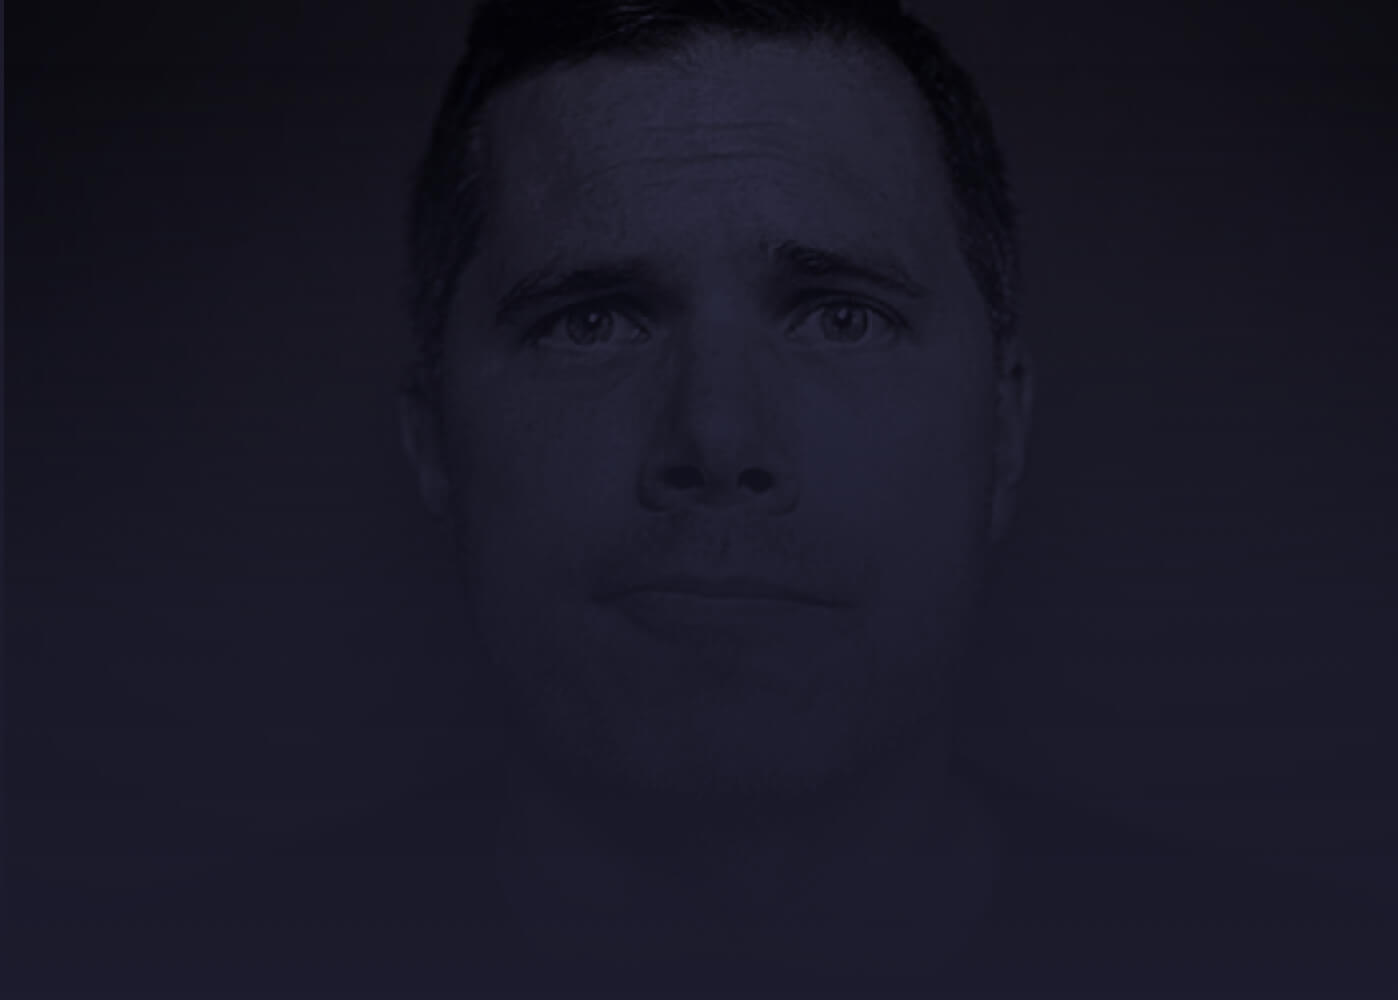
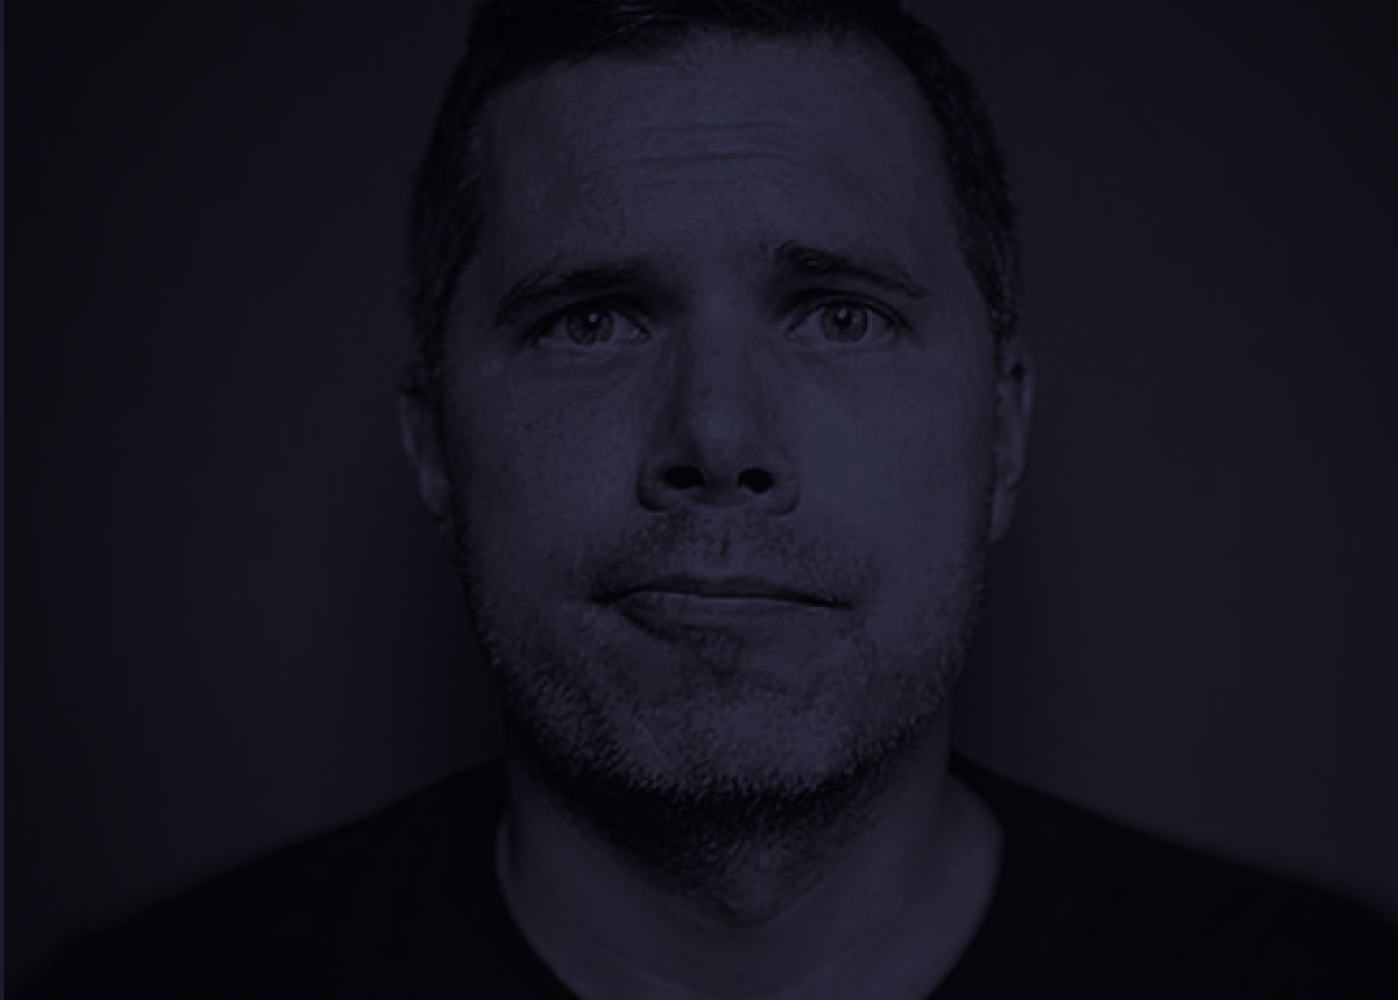
Update host image and gradient

diff --git a/components/host.js b/components/host.js
@@ -22,9 +22,9 @@ export default ({ children }) => (
         <style jsx>{`
 
             .host-avatar {
-                background-image: url(/static/images/phil.jpg);
+                background-image: url(/static/images/host-phil.jpg);
                 background-size: cover;
-                 box-shadow: 40px 80px 80px 20px rgba(0, 0, 0, 0.5);
+                box-shadow: 40px 80px 80px 20px rgba(0, 0, 0, 0.5);
 
                 height: 500px;
 
@@ -36,8 +36,7 @@ export default ({ children }) => (
                     bottom: 0;
                     left: 0;
                     right: 0;
-                    background: linear-gradient(to bottom, #000000 0%, rgba(28, 28, 45, 0.80) 40%, #1c1c2d);
-                    //background-image: linear-gradient(to top, #1c1c2d, rgba(28, 28, 45, 0.80) 100%, rgba(108, 28, 45, 0));
+                    background: linear-gradient(to bottom,#1c1c2d 0%,transparent);
                 }
 
                 .text {
